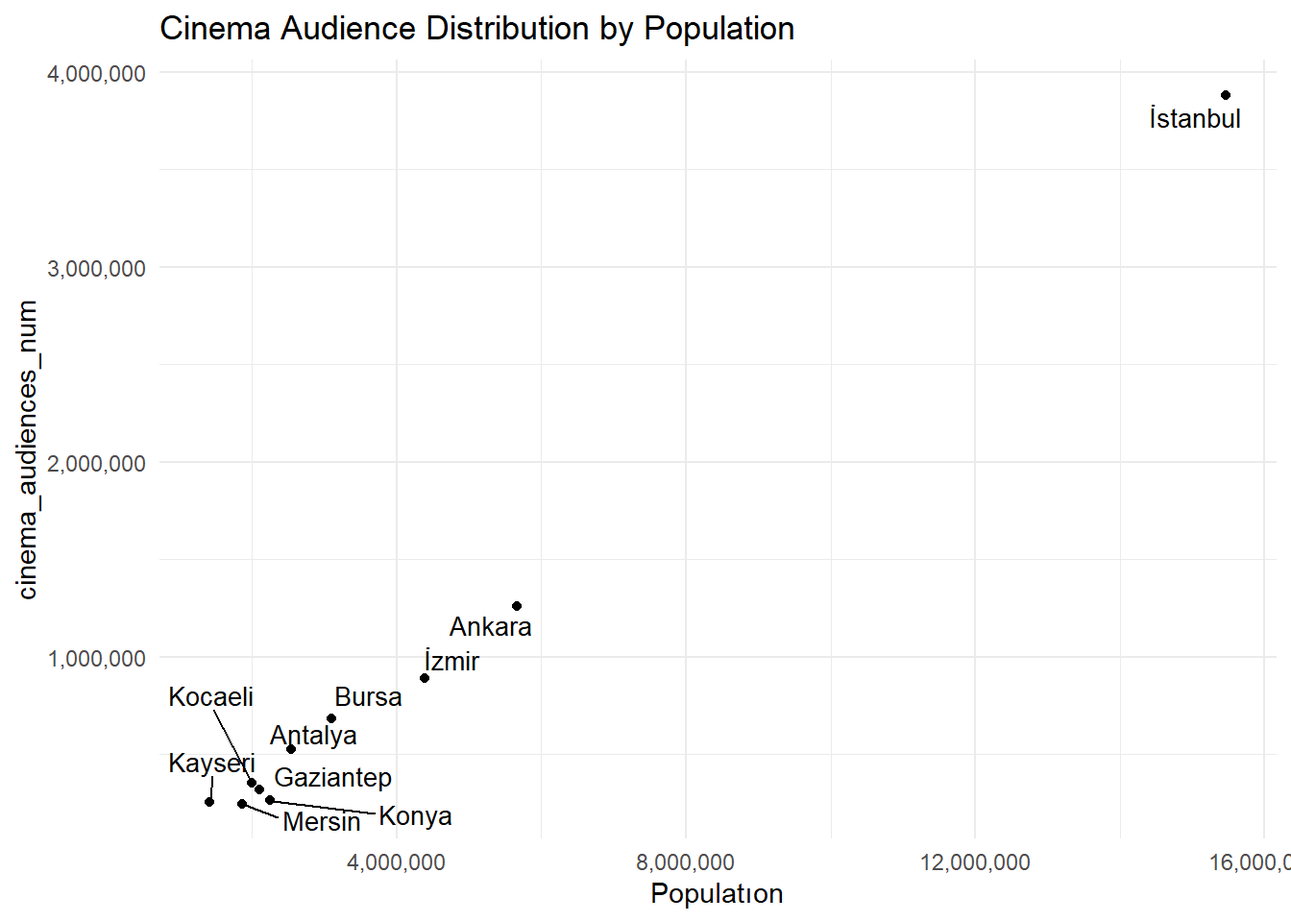
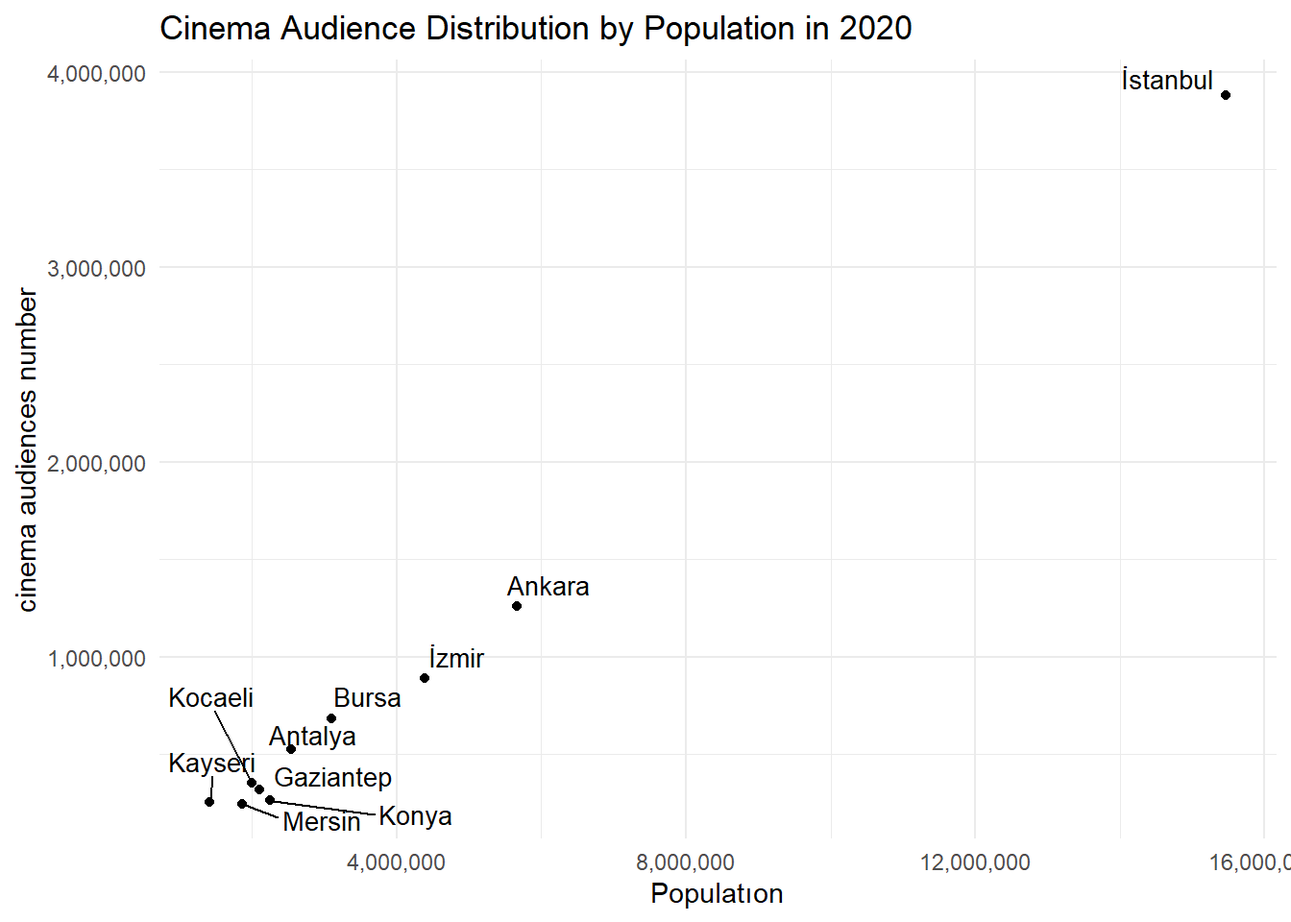
:))

diff --git a/docs/analysis.html b/docs/analysis.html
@@ -382,14 +382,22 @@ pre > code.sourceCode > span > a:first-child::before { text-decoration: underlin
 <span id="cb11-8"><a href="#cb11-8" aria-hidden="true" tabindex="-1"></a>  <span class="fu">geom_point</span>() <span class="sc">+</span></span>
 <span id="cb11-9"><a href="#cb11-9" aria-hidden="true" tabindex="-1"></a>  <span class="fu">geom_text_repel</span>(<span class="at">size =</span> <span class="fl">3.5</span>) <span class="sc">+</span></span>
 <span id="cb11-10"><a href="#cb11-10" aria-hidden="true" tabindex="-1"></a>  <span class="fu">theme_minimal</span>() <span class="sc">+</span></span>
-<span id="cb11-11"><a href="#cb11-11" aria-hidden="true" tabindex="-1"></a>  <span class="fu">labs</span>(<span class="at">title =</span> <span class="st">"Cinema Audience Distribution by Population"</span>,</span>
+<span id="cb11-11"><a href="#cb11-11" aria-hidden="true" tabindex="-1"></a>  <span class="fu">labs</span>(<span class="at">title =</span> <span class="st">"Cinema Audience Distribution by Population in 2020"</span>,</span>
 <span id="cb11-12"><a href="#cb11-12" aria-hidden="true" tabindex="-1"></a>       <span class="at">x =</span> <span class="st">"Populatıon"</span>,</span>
-<span id="cb11-13"><a href="#cb11-13" aria-hidden="true" tabindex="-1"></a>       <span class="at">y =</span> <span class="st">"cinema_audiences_num"</span>) <span class="sc">+</span></span>
+<span id="cb11-13"><a href="#cb11-13" aria-hidden="true" tabindex="-1"></a>       <span class="at">y =</span> <span class="st">"cinema audiences number"</span>) <span class="sc">+</span></span>
 <span id="cb11-14"><a href="#cb11-14" aria-hidden="true" tabindex="-1"></a>  <span class="fu">scale_x_continuous</span>(<span class="at">labels =</span> scales<span class="sc">::</span>comma) <span class="sc">+</span></span>
 <span id="cb11-15"><a href="#cb11-15" aria-hidden="true" tabindex="-1"></a>  <span class="fu">scale_y_continuous</span>(<span class="at">labels =</span> scales<span class="sc">::</span>comma)</span></code><button title="Copy to Clipboard" class="code-copy-button"><i class="bi"></i></button></pre></div>
 </details>
 <div class="cell-output-display">
 <p><img src="analysis_files/figure-html/unnamed-chunk-10-1.png" class="img-fluid" width="672"></p>
+</div>
+<details>
+<summary>Show the code</summary>
+<div class="sourceCode cell-code" id="cb12"><pre class="sourceCode r code-with-copy"><code class="sourceCode r"><span id="cb12-1"><a href="#cb12-1" aria-hidden="true" tabindex="-1"></a>correlation <span class="ot">&lt;-</span> <span class="fu">cor</span>(top_cities_2020<span class="sc">$</span>population, top_cities_2020<span class="sc">$</span>cinema_audiences_num, <span class="at">use =</span> <span class="st">"complete.obs"</span>)</span>
+<span id="cb12-2"><a href="#cb12-2" aria-hidden="true" tabindex="-1"></a><span class="fu">print</span>(<span class="fu">paste</span>(<span class="st">"Correlation between population and cinema audiences number:"</span>, correlation))</span></code><button title="Copy to Clipboard" class="code-copy-button"><i class="bi"></i></button></pre></div>
+</details>
+<div class="cell-output cell-output-stdout">
+<pre><code>[1] "Correlation between population and cinema audiences number: 0.998203615571087"</code></pre>
 </div>
 </div>
 <blockquote class="blockquote">
@@ -410,85 +418,93 @@ pre > code.sourceCode > span > a:first-child::before { text-decoration: underlin
 <div class="cell">
 <details>
 <summary>Show the code</summary>
-<div class="sourceCode cell-code" id="cb12"><pre class="sourceCode r code-with-copy"><code class="sourceCode r"><span id="cb12-1"><a href="#cb12-1" aria-hidden="true" tabindex="-1"></a>data_2020 <span class="ot">&lt;-</span> data <span class="sc">%&gt;%</span></span>
-<span id="cb12-2"><a href="#cb12-2" aria-hidden="true" tabindex="-1"></a>  <span class="fu">filter</span>(year <span class="sc">==</span> <span class="dv">2020</span>)</span>
-<span id="cb12-3"><a href="#cb12-3" aria-hidden="true" tabindex="-1"></a></span>
-<span id="cb12-4"><a href="#cb12-4" aria-hidden="true" tabindex="-1"></a>top_literacy_cities_2020 <span class="ot">&lt;-</span> data_2020 <span class="sc">%&gt;%</span></span>
-<span id="cb12-5"><a href="#cb12-5" aria-hidden="true" tabindex="-1"></a>  <span class="fu">arrange</span>(<span class="fu">desc</span>(literacy_rate)) <span class="sc">%&gt;%</span></span>
-<span id="cb12-6"><a href="#cb12-6" aria-hidden="true" tabindex="-1"></a>  <span class="fu">slice_head</span>(<span class="at">n =</span> <span class="dv">10</span>)</span>
-<span id="cb12-7"><a href="#cb12-7" aria-hidden="true" tabindex="-1"></a></span>
-<span id="cb12-8"><a href="#cb12-8" aria-hidden="true" tabindex="-1"></a><span class="fu">ggplot</span>(top_literacy_cities_2020, <span class="fu">aes</span>(<span class="at">x =</span> loaned_book_num, <span class="at">y =</span> suicides_num, <span class="at">color =</span> city)) <span class="sc">+</span></span>
-<span id="cb12-9"><a href="#cb12-9" aria-hidden="true" tabindex="-1"></a>  <span class="fu">geom_point</span>() <span class="sc">+</span></span>
-<span id="cb12-10"><a href="#cb12-10" aria-hidden="true" tabindex="-1"></a>  <span class="fu">geom_text_repel</span>(<span class="fu">aes</span>(<span class="at">label =</span> city)) <span class="sc">+</span></span>
-<span id="cb12-11"><a href="#cb12-11" aria-hidden="true" tabindex="-1"></a>  <span class="fu">labs</span>(<span class="at">x =</span> <span class="st">"Loaned Book Number"</span>, <span class="at">y =</span> <span class="st">"Number of Suicides"</span>,</span>
-<span id="cb12-12"><a href="#cb12-12" aria-hidden="true" tabindex="-1"></a>       <span class="at">title =</span> <span class="st">"The Effect of Literacy Rate on Suicide Rates"</span>) <span class="sc">+</span></span>
-<span id="cb12-13"><a href="#cb12-13" aria-hidden="true" tabindex="-1"></a>  <span class="fu">theme_minimal</span>() <span class="sc">+</span></span>
-<span id="cb12-14"><a href="#cb12-14" aria-hidden="true" tabindex="-1"></a>  <span class="fu">theme</span>(<span class="at">legend.position =</span> <span class="st">"right"</span>)</span></code><button title="Copy to Clipboard" class="code-copy-button"><i class="bi"></i></button></pre></div>
+<div class="sourceCode cell-code" id="cb14"><pre class="sourceCode r code-with-copy"><code class="sourceCode r"><span id="cb14-1"><a href="#cb14-1" aria-hidden="true" tabindex="-1"></a>data_2020 <span class="ot">&lt;-</span> data <span class="sc">%&gt;%</span></span>
+<span id="cb14-2"><a href="#cb14-2" aria-hidden="true" tabindex="-1"></a>  <span class="fu">filter</span>(year <span class="sc">==</span> <span class="dv">2020</span>)</span>
+<span id="cb14-3"><a href="#cb14-3" aria-hidden="true" tabindex="-1"></a></span>
+<span id="cb14-4"><a href="#cb14-4" aria-hidden="true" tabindex="-1"></a>top_literacy_cities_2020 <span class="ot">&lt;-</span> data_2020 <span class="sc">%&gt;%</span></span>
+<span id="cb14-5"><a href="#cb14-5" aria-hidden="true" tabindex="-1"></a>  <span class="fu">arrange</span>(<span class="fu">desc</span>(literacy_rate)) <span class="sc">%&gt;%</span></span>
+<span id="cb14-6"><a href="#cb14-6" aria-hidden="true" tabindex="-1"></a>  <span class="fu">slice_head</span>(<span class="at">n =</span> <span class="dv">10</span>)</span>
+<span id="cb14-7"><a href="#cb14-7" aria-hidden="true" tabindex="-1"></a></span>
+<span id="cb14-8"><a href="#cb14-8" aria-hidden="true" tabindex="-1"></a><span class="fu">ggplot</span>(top_literacy_cities_2020, <span class="fu">aes</span>(<span class="at">x =</span> loaned_book_num, <span class="at">y =</span> suicides_num, <span class="at">color =</span> city)) <span class="sc">+</span></span>
+<span id="cb14-9"><a href="#cb14-9" aria-hidden="true" tabindex="-1"></a>  <span class="fu">geom_point</span>() <span class="sc">+</span></span>
+<span id="cb14-10"><a href="#cb14-10" aria-hidden="true" tabindex="-1"></a>  <span class="fu">geom_text_repel</span>(<span class="fu">aes</span>(<span class="at">label =</span> city)) <span class="sc">+</span></span>
+<span id="cb14-11"><a href="#cb14-11" aria-hidden="true" tabindex="-1"></a>  <span class="fu">labs</span>(<span class="at">x =</span> <span class="st">"Loaned Book Number"</span>, <span class="at">y =</span> <span class="st">"Number of Suicides"</span>,</span>
+<span id="cb14-12"><a href="#cb14-12" aria-hidden="true" tabindex="-1"></a>       <span class="at">title =</span> <span class="st">"The Effect of Literacy Rate on Suicide Rates"</span>) <span class="sc">+</span></span>
+<span id="cb14-13"><a href="#cb14-13" aria-hidden="true" tabindex="-1"></a>  <span class="fu">theme_minimal</span>() <span class="sc">+</span></span>
+<span id="cb14-14"><a href="#cb14-14" aria-hidden="true" tabindex="-1"></a>  <span class="fu">theme</span>(<span class="at">legend.position =</span> <span class="st">"right"</span>)</span></code><button title="Copy to Clipboard" class="code-copy-button"><i class="bi"></i></button></pre></div>
 </details>
 <div class="cell-output-display">
 <p><img src="analysis_files/figure-html/unnamed-chunk-11-1.png" class="img-fluid" width="672"></p>
+</div>
+<details>
+<summary>Show the code</summary>
+<div class="sourceCode cell-code" id="cb15"><pre class="sourceCode r code-with-copy"><code class="sourceCode r"><span id="cb15-1"><a href="#cb15-1" aria-hidden="true" tabindex="-1"></a>correlation <span class="ot">&lt;-</span> <span class="fu">cor</span>(top_literacy_cities_2020<span class="sc">$</span>loaned_book_num, top_literacy_cities_2020<span class="sc">$</span>suicides_num, <span class="at">use =</span> <span class="st">"complete.obs"</span>)</span>
+<span id="cb15-2"><a href="#cb15-2" aria-hidden="true" tabindex="-1"></a><span class="fu">print</span>(<span class="fu">paste</span>(<span class="st">"Correlation between loaned book number and number of suicides:"</span>, correlation))</span></code><button title="Copy to Clipboard" class="code-copy-button"><i class="bi"></i></button></pre></div>
+</details>
+<div class="cell-output cell-output-stdout">
+<pre><code>[1] "Correlation between loaned book number and number of suicides: 0.971171019832996"</code></pre>
 </div>
 </div>
 <p>&lt;&lt;&lt;&lt;&lt;&lt;&lt; HEAD</p>
 <div class="cell">
 <details>
 <summary>Show the code</summary>
-<div class="sourceCode cell-code" id="cb13"><pre class="sourceCode r code-with-copy"><code class="sourceCode r"><span id="cb13-1"><a href="#cb13-1" aria-hidden="true" tabindex="-1"></a>data<span class="sc">$</span>population <span class="ot">&lt;-</span> <span class="fu">as.numeric</span>(data<span class="sc">$</span>population)</span>
-<span id="cb13-2"><a href="#cb13-2" aria-hidden="true" tabindex="-1"></a>data<span class="sc">$</span>book_num <span class="ot">&lt;-</span> <span class="fu">as.numeric</span>(data<span class="sc">$</span>book_num)</span>
-<span id="cb13-3"><a href="#cb13-3" aria-hidden="true" tabindex="-1"></a>data<span class="sc">$</span>public_lib <span class="ot">&lt;-</span> <span class="fu">as.numeric</span>(data<span class="sc">$</span>public_lib)</span>
-<span id="cb13-4"><a href="#cb13-4" aria-hidden="true" tabindex="-1"></a>data<span class="sc">$</span>user_num <span class="ot">&lt;-</span> <span class="fu">as.numeric</span>(data<span class="sc">$</span>user_num)</span>
-<span id="cb13-5"><a href="#cb13-5" aria-hidden="true" tabindex="-1"></a>data<span class="sc">$</span>user_num_per_thousand <span class="ot">&lt;-</span> <span class="fu">as.numeric</span>(data<span class="sc">$</span>user_num_per_thousand)</span>
-<span id="cb13-6"><a href="#cb13-6" aria-hidden="true" tabindex="-1"></a>data<span class="sc">$</span>loaned_book_num <span class="ot">&lt;-</span> <span class="fu">as.numeric</span>(data<span class="sc">$</span>loaned_book_num)</span>
-<span id="cb13-7"><a href="#cb13-7" aria-hidden="true" tabindex="-1"></a>data<span class="sc">$</span>ministry_museum_piece_num <span class="ot">&lt;-</span> <span class="fu">as.numeric</span>(data<span class="sc">$</span>ministry_museum_piece_num)</span>
-<span id="cb13-8"><a href="#cb13-8" aria-hidden="true" tabindex="-1"></a>data<span class="sc">$</span>ministry_museum_num <span class="ot">&lt;-</span> <span class="fu">as.numeric</span>(data<span class="sc">$</span>ministry_museum_num)</span>
-<span id="cb13-9"><a href="#cb13-9" aria-hidden="true" tabindex="-1"></a>data<span class="sc">$</span>ministry_museum_visitor_num <span class="ot">&lt;-</span> <span class="fu">as.numeric</span>(data<span class="sc">$</span>ministry_museum_visitor_num)</span>
-<span id="cb13-10"><a href="#cb13-10" aria-hidden="true" tabindex="-1"></a>data<span class="sc">$</span>ruins_num <span class="ot">&lt;-</span> <span class="fu">as.numeric</span>(data<span class="sc">$</span>ruins_num)</span>
-<span id="cb13-11"><a href="#cb13-11" aria-hidden="true" tabindex="-1"></a>data<span class="sc">$</span>private_museum_piece_num <span class="ot">&lt;-</span> <span class="fu">as.numeric</span>(data<span class="sc">$</span>private_museum_piece_num)</span>
-<span id="cb13-12"><a href="#cb13-12" aria-hidden="true" tabindex="-1"></a>data<span class="sc">$</span>private_museum_personnel_num <span class="ot">&lt;-</span> <span class="fu">as.numeric</span>(data<span class="sc">$</span>private_museum_personnel_num)</span>
-<span id="cb13-13"><a href="#cb13-13" aria-hidden="true" tabindex="-1"></a>data<span class="sc">$</span>private_museum_num <span class="ot">&lt;-</span> <span class="fu">as.numeric</span>(data<span class="sc">$</span>private_museum_num)</span>
-<span id="cb13-14"><a href="#cb13-14" aria-hidden="true" tabindex="-1"></a>data<span class="sc">$</span>private_museum_visitor_num <span class="ot">&lt;-</span> <span class="fu">as.numeric</span>(data<span class="sc">$</span>private_museum_visitor_num)</span>
-<span id="cb13-15"><a href="#cb13-15" aria-hidden="true" tabindex="-1"></a>data<span class="sc">$</span>cinema_audiences_num <span class="ot">&lt;-</span> <span class="fu">as.numeric</span>(data<span class="sc">$</span>cinema_audiences_num)</span>
-<span id="cb13-16"><a href="#cb13-16" aria-hidden="true" tabindex="-1"></a>data<span class="sc">$</span>theater_audiences_num <span class="ot">&lt;-</span> <span class="fu">as.numeric</span>(data<span class="sc">$</span>theater_audiences_num)</span>
-<span id="cb13-17"><a href="#cb13-17" aria-hidden="true" tabindex="-1"></a>data<span class="sc">$</span>literacy_rate <span class="ot">&lt;-</span> <span class="fu">as.numeric</span>(data<span class="sc">$</span>literacy_rate)</span>
-<span id="cb13-18"><a href="#cb13-18" aria-hidden="true" tabindex="-1"></a>data<span class="sc">$</span>suicides_num <span class="ot">&lt;-</span> <span class="fu">as.numeric</span>(data<span class="sc">$</span>suicides_num)</span>
-<span id="cb13-19"><a href="#cb13-19" aria-hidden="true" tabindex="-1"></a></span>
-<span id="cb13-20"><a href="#cb13-20" aria-hidden="true" tabindex="-1"></a>cor_pop_book_2 <span class="ot">&lt;-</span> <span class="fu">cor</span>(data<span class="sc">$</span>population, data<span class="sc">$</span>public_lib)</span>
-<span id="cb13-21"><a href="#cb13-21" aria-hidden="true" tabindex="-1"></a><span class="fu">cat</span>(<span class="st">"Correlation between Population and Number of Library:"</span>,cor_pop_book_2,<span class="st">"</span><span class="sc">\n</span><span class="st">"</span>)</span></code><button title="Copy to Clipboard" class="code-copy-button"><i class="bi"></i></button></pre></div>
+<div class="sourceCode cell-code" id="cb17"><pre class="sourceCode r code-with-copy"><code class="sourceCode r"><span id="cb17-1"><a href="#cb17-1" aria-hidden="true" tabindex="-1"></a>data<span class="sc">$</span>population <span class="ot">&lt;-</span> <span class="fu">as.numeric</span>(data<span class="sc">$</span>population)</span>
+<span id="cb17-2"><a href="#cb17-2" aria-hidden="true" tabindex="-1"></a>data<span class="sc">$</span>book_num <span class="ot">&lt;-</span> <span class="fu">as.numeric</span>(data<span class="sc">$</span>book_num)</span>
+<span id="cb17-3"><a href="#cb17-3" aria-hidden="true" tabindex="-1"></a>data<span class="sc">$</span>public_lib <span class="ot">&lt;-</span> <span class="fu">as.numeric</span>(data<span class="sc">$</span>public_lib)</span>
+<span id="cb17-4"><a href="#cb17-4" aria-hidden="true" tabindex="-1"></a>data<span class="sc">$</span>user_num <span class="ot">&lt;-</span> <span class="fu">as.numeric</span>(data<span class="sc">$</span>user_num)</span>
+<span id="cb17-5"><a href="#cb17-5" aria-hidden="true" tabindex="-1"></a>data<span class="sc">$</span>user_num_per_thousand <span class="ot">&lt;-</span> <span class="fu">as.numeric</span>(data<span class="sc">$</span>user_num_per_thousand)</span>
+<span id="cb17-6"><a href="#cb17-6" aria-hidden="true" tabindex="-1"></a>data<span class="sc">$</span>loaned_book_num <span class="ot">&lt;-</span> <span class="fu">as.numeric</span>(data<span class="sc">$</span>loaned_book_num)</span>
+<span id="cb17-7"><a href="#cb17-7" aria-hidden="true" tabindex="-1"></a>data<span class="sc">$</span>ministry_museum_piece_num <span class="ot">&lt;-</span> <span class="fu">as.numeric</span>(data<span class="sc">$</span>ministry_museum_piece_num)</span>
+<span id="cb17-8"><a href="#cb17-8" aria-hidden="true" tabindex="-1"></a>data<span class="sc">$</span>ministry_museum_num <span class="ot">&lt;-</span> <span class="fu">as.numeric</span>(data<span class="sc">$</span>ministry_museum_num)</span>
+<span id="cb17-9"><a href="#cb17-9" aria-hidden="true" tabindex="-1"></a>data<span class="sc">$</span>ministry_museum_visitor_num <span class="ot">&lt;-</span> <span class="fu">as.numeric</span>(data<span class="sc">$</span>ministry_museum_visitor_num)</span>
+<span id="cb17-10"><a href="#cb17-10" aria-hidden="true" tabindex="-1"></a>data<span class="sc">$</span>ruins_num <span class="ot">&lt;-</span> <span class="fu">as.numeric</span>(data<span class="sc">$</span>ruins_num)</span>
+<span id="cb17-11"><a href="#cb17-11" aria-hidden="true" tabindex="-1"></a>data<span class="sc">$</span>private_museum_piece_num <span class="ot">&lt;-</span> <span class="fu">as.numeric</span>(data<span class="sc">$</span>private_museum_piece_num)</span>
+<span id="cb17-12"><a href="#cb17-12" aria-hidden="true" tabindex="-1"></a>data<span class="sc">$</span>private_museum_personnel_num <span class="ot">&lt;-</span> <span class="fu">as.numeric</span>(data<span class="sc">$</span>private_museum_personnel_num)</span>
+<span id="cb17-13"><a href="#cb17-13" aria-hidden="true" tabindex="-1"></a>data<span class="sc">$</span>private_museum_num <span class="ot">&lt;-</span> <span class="fu">as.numeric</span>(data<span class="sc">$</span>private_museum_num)</span>
+<span id="cb17-14"><a href="#cb17-14" aria-hidden="true" tabindex="-1"></a>data<span class="sc">$</span>private_museum_visitor_num <span class="ot">&lt;-</span> <span class="fu">as.numeric</span>(data<span class="sc">$</span>private_museum_visitor_num)</span>
+<span id="cb17-15"><a href="#cb17-15" aria-hidden="true" tabindex="-1"></a>data<span class="sc">$</span>cinema_audiences_num <span class="ot">&lt;-</span> <span class="fu">as.numeric</span>(data<span class="sc">$</span>cinema_audiences_num)</span>
+<span id="cb17-16"><a href="#cb17-16" aria-hidden="true" tabindex="-1"></a>data<span class="sc">$</span>theater_audiences_num <span class="ot">&lt;-</span> <span class="fu">as.numeric</span>(data<span class="sc">$</span>theater_audiences_num)</span>
+<span id="cb17-17"><a href="#cb17-17" aria-hidden="true" tabindex="-1"></a>data<span class="sc">$</span>literacy_rate <span class="ot">&lt;-</span> <span class="fu">as.numeric</span>(data<span class="sc">$</span>literacy_rate)</span>
+<span id="cb17-18"><a href="#cb17-18" aria-hidden="true" tabindex="-1"></a>data<span class="sc">$</span>suicides_num <span class="ot">&lt;-</span> <span class="fu">as.numeric</span>(data<span class="sc">$</span>suicides_num)</span>
+<span id="cb17-19"><a href="#cb17-19" aria-hidden="true" tabindex="-1"></a></span>
+<span id="cb17-20"><a href="#cb17-20" aria-hidden="true" tabindex="-1"></a>cor_pop_book_2 <span class="ot">&lt;-</span> <span class="fu">cor</span>(data<span class="sc">$</span>population, data<span class="sc">$</span>public_lib)</span>
+<span id="cb17-21"><a href="#cb17-21" aria-hidden="true" tabindex="-1"></a><span class="fu">cat</span>(<span class="st">"Correlation between Population and Number of Library:"</span>,cor_pop_book_2,<span class="st">"</span><span class="sc">\n</span><span class="st">"</span>)</span></code><button title="Copy to Clipboard" class="code-copy-button"><i class="bi"></i></button></pre></div>
 </details>
 <div class="cell-output cell-output-stdout">
 <pre><code>Correlation between Population and Number of Library: 0.615907 </code></pre>
 </div>
 <details>
 <summary>Show the code</summary>
-<div class="sourceCode cell-code" id="cb15"><pre class="sourceCode r code-with-copy"><code class="sourceCode r"><span id="cb15-1"><a href="#cb15-1" aria-hidden="true" tabindex="-1"></a>cor_pop_book_3 <span class="ot">&lt;-</span> <span class="fu">cor</span>(data<span class="sc">$</span>book_num, data<span class="sc">$</span>public_lib)</span>
-<span id="cb15-2"><a href="#cb15-2" aria-hidden="true" tabindex="-1"></a><span class="fu">cat</span>(<span class="st">"Correlation between Number of Book and Number of Library:"</span>,cor_pop_book_3,<span class="st">"</span><span class="sc">\n</span><span class="st">"</span>)</span></code><button title="Copy to Clipboard" class="code-copy-button"><i class="bi"></i></button></pre></div>
+<div class="sourceCode cell-code" id="cb19"><pre class="sourceCode r code-with-copy"><code class="sourceCode r"><span id="cb19-1"><a href="#cb19-1" aria-hidden="true" tabindex="-1"></a>cor_pop_book_3 <span class="ot">&lt;-</span> <span class="fu">cor</span>(data<span class="sc">$</span>book_num, data<span class="sc">$</span>public_lib)</span>
+<span id="cb19-2"><a href="#cb19-2" aria-hidden="true" tabindex="-1"></a><span class="fu">cat</span>(<span class="st">"Correlation between Number of Book and Number of Library:"</span>,cor_pop_book_3,<span class="st">"</span><span class="sc">\n</span><span class="st">"</span>)</span></code><button title="Copy to Clipboard" class="code-copy-button"><i class="bi"></i></button></pre></div>
 </details>
 <div class="cell-output cell-output-stdout">
 <pre><code>Correlation between Number of Book and Number of Library: 0.8270526 </code></pre>
 </div>
 <details>
 <summary>Show the code</summary>
-<div class="sourceCode cell-code" id="cb17"><pre class="sourceCode r code-with-copy"><code class="sourceCode r"><span id="cb17-1"><a href="#cb17-1" aria-hidden="true" tabindex="-1"></a>cor_pop_book_4 <span class="ot">&lt;-</span> <span class="fu">cor</span>(data<span class="sc">$</span>user_num, data<span class="sc">$</span>public_lib)</span>
-<span id="cb17-2"><a href="#cb17-2" aria-hidden="true" tabindex="-1"></a><span class="fu">cat</span>(<span class="st">"Correlation between User Number and Number of Library:"</span>,cor_pop_book_4,<span class="st">"</span><span class="sc">\n</span><span class="st">"</span>)</span></code><button title="Copy to Clipboard" class="code-copy-button"><i class="bi"></i></button></pre></div>
+<div class="sourceCode cell-code" id="cb21"><pre class="sourceCode r code-with-copy"><code class="sourceCode r"><span id="cb21-1"><a href="#cb21-1" aria-hidden="true" tabindex="-1"></a>cor_pop_book_4 <span class="ot">&lt;-</span> <span class="fu">cor</span>(data<span class="sc">$</span>user_num, data<span class="sc">$</span>public_lib)</span>
+<span id="cb21-2"><a href="#cb21-2" aria-hidden="true" tabindex="-1"></a><span class="fu">cat</span>(<span class="st">"Correlation between User Number and Number of Library:"</span>,cor_pop_book_4,<span class="st">"</span><span class="sc">\n</span><span class="st">"</span>)</span></code><button title="Copy to Clipboard" class="code-copy-button"><i class="bi"></i></button></pre></div>
 </details>
 <div class="cell-output cell-output-stdout">
 <pre><code>Correlation between User Number and Number of Library: 0.5895032 </code></pre>
 </div>
 <details>
 <summary>Show the code</summary>
-<div class="sourceCode cell-code" id="cb19"><pre class="sourceCode r code-with-copy"><code class="sourceCode r"><span id="cb19-1"><a href="#cb19-1" aria-hidden="true" tabindex="-1"></a>cor_pop_book_5 <span class="ot">&lt;-</span> <span class="fu">cor</span>(data<span class="sc">$</span>literacy_rate, data<span class="sc">$</span>public_lib)</span>
-<span id="cb19-2"><a href="#cb19-2" aria-hidden="true" tabindex="-1"></a><span class="fu">cat</span>(<span class="st">"Correlation between Literacy Rate and Number of Library:"</span>,cor_pop_book_5,<span class="st">"</span><span class="sc">\n</span><span class="st">"</span>)</span></code><button title="Copy to Clipboard" class="code-copy-button"><i class="bi"></i></button></pre></div>
+<div class="sourceCode cell-code" id="cb23"><pre class="sourceCode r code-with-copy"><code class="sourceCode r"><span id="cb23-1"><a href="#cb23-1" aria-hidden="true" tabindex="-1"></a>cor_pop_book_5 <span class="ot">&lt;-</span> <span class="fu">cor</span>(data<span class="sc">$</span>literacy_rate, data<span class="sc">$</span>public_lib)</span>
+<span id="cb23-2"><a href="#cb23-2" aria-hidden="true" tabindex="-1"></a><span class="fu">cat</span>(<span class="st">"Correlation between Literacy Rate and Number of Library:"</span>,cor_pop_book_5,<span class="st">"</span><span class="sc">\n</span><span class="st">"</span>)</span></code><button title="Copy to Clipboard" class="code-copy-button"><i class="bi"></i></button></pre></div>
 </details>
 <div class="cell-output cell-output-stdout">
 <pre><code>Correlation between Literacy Rate and Number of Library: 0.3595135 </code></pre>
 </div>
 </div>
 <div class="cell">
-<div class="sourceCode cell-code" id="cb21"><pre class="sourceCode r code-with-copy"><code class="sourceCode r"><span id="cb21-1"><a href="#cb21-1" aria-hidden="true" tabindex="-1"></a>data_subset <span class="ot">&lt;-</span> data <span class="sc">%&gt;%</span></span>
-<span id="cb21-2"><a href="#cb21-2" aria-hidden="true" tabindex="-1"></a>  <span class="fu">filter</span>(year <span class="sc">%in%</span> <span class="fu">c</span>(<span class="dv">2015</span>, <span class="dv">2016</span>, <span class="dv">2017</span>, <span class="dv">2018</span>, <span class="dv">2019</span>, <span class="dv">2020</span>, <span class="dv">2021</span>))</span>
-<span id="cb21-3"><a href="#cb21-3" aria-hidden="true" tabindex="-1"></a></span>
-<span id="cb21-4"><a href="#cb21-4" aria-hidden="true" tabindex="-1"></a>model <span class="ot">&lt;-</span> <span class="fu">lm</span>(public_lib <span class="sc">~</span> population <span class="sc">+</span> book_num <span class="sc">+</span> user_num <span class="sc">+</span> literacy_rate, <span class="at">data =</span> data_subset)</span>
-<span id="cb21-5"><a href="#cb21-5" aria-hidden="true" tabindex="-1"></a><span class="fu">summary</span>(model)</span></code><button title="Copy to Clipboard" class="code-copy-button"><i class="bi"></i></button></pre></div>
+<div class="sourceCode cell-code" id="cb25"><pre class="sourceCode r code-with-copy"><code class="sourceCode r"><span id="cb25-1"><a href="#cb25-1" aria-hidden="true" tabindex="-1"></a>data_subset <span class="ot">&lt;-</span> data <span class="sc">%&gt;%</span></span>
+<span id="cb25-2"><a href="#cb25-2" aria-hidden="true" tabindex="-1"></a>  <span class="fu">filter</span>(year <span class="sc">%in%</span> <span class="fu">c</span>(<span class="dv">2015</span>, <span class="dv">2016</span>, <span class="dv">2017</span>, <span class="dv">2018</span>, <span class="dv">2019</span>, <span class="dv">2020</span>, <span class="dv">2021</span>))</span>
+<span id="cb25-3"><a href="#cb25-3" aria-hidden="true" tabindex="-1"></a></span>
+<span id="cb25-4"><a href="#cb25-4" aria-hidden="true" tabindex="-1"></a>model <span class="ot">&lt;-</span> <span class="fu">lm</span>(public_lib <span class="sc">~</span> population <span class="sc">+</span> book_num <span class="sc">+</span> user_num <span class="sc">+</span> literacy_rate, <span class="at">data =</span> data_subset)</span>
+<span id="cb25-5"><a href="#cb25-5" aria-hidden="true" tabindex="-1"></a><span class="fu">summary</span>(model)</span></code><button title="Copy to Clipboard" class="code-copy-button"><i class="bi"></i></button></pre></div>
 <div class="cell-output cell-output-stdout">
 <pre><code>
 Call:
@@ -513,18 +529,18 @@ Residual standard error: 4.764 on 562 degrees of freedom
 Multiple R-squared:  0.7392,    Adjusted R-squared:  0.7373 
 F-statistic: 398.2 on 4 and 562 DF,  p-value: &lt; 2.2e-16</code></pre>
 </div>
-<div class="sourceCode cell-code" id="cb23"><pre class="sourceCode r code-with-copy"><code class="sourceCode r"><span id="cb23-1"><a href="#cb23-1" aria-hidden="true" tabindex="-1"></a>new_data_2022 <span class="ot">&lt;-</span> data <span class="sc">%&gt;%</span></span>
-<span id="cb23-2"><a href="#cb23-2" aria-hidden="true" tabindex="-1"></a>  <span class="fu">filter</span>(year <span class="sc">==</span> <span class="dv">2022</span>) </span>
-<span id="cb23-3"><a href="#cb23-3" aria-hidden="true" tabindex="-1"></a></span>
-<span id="cb23-4"><a href="#cb23-4" aria-hidden="true" tabindex="-1"></a>new_data_2022 <span class="ot">&lt;-</span> <span class="fu">data.frame</span>(</span>
-<span id="cb23-5"><a href="#cb23-5" aria-hidden="true" tabindex="-1"></a>  <span class="at">population =</span> new_data_2022<span class="sc">$</span>population,</span>
-<span id="cb23-6"><a href="#cb23-6" aria-hidden="true" tabindex="-1"></a>  <span class="at">book_num =</span> new_data_2022<span class="sc">$</span>book_num,</span>
-<span id="cb23-7"><a href="#cb23-7" aria-hidden="true" tabindex="-1"></a>  <span class="at">user_num =</span> new_data_2022<span class="sc">$</span>user_num,</span>
-<span id="cb23-8"><a href="#cb23-8" aria-hidden="true" tabindex="-1"></a>  <span class="at">literacy_rate =</span> new_data_2022<span class="sc">$</span>literacy_rate</span>
-<span id="cb23-9"><a href="#cb23-9" aria-hidden="true" tabindex="-1"></a>)</span>
-<span id="cb23-10"><a href="#cb23-10" aria-hidden="true" tabindex="-1"></a></span>
-<span id="cb23-11"><a href="#cb23-11" aria-hidden="true" tabindex="-1"></a>predictions_2022 <span class="ot">&lt;-</span> <span class="fu">predict</span>(model, new_data_2022)</span>
-<span id="cb23-12"><a href="#cb23-12" aria-hidden="true" tabindex="-1"></a>predictions_2022</span></code><button title="Copy to Clipboard" class="code-copy-button"><i class="bi"></i></button></pre></div>
+<div class="sourceCode cell-code" id="cb27"><pre class="sourceCode r code-with-copy"><code class="sourceCode r"><span id="cb27-1"><a href="#cb27-1" aria-hidden="true" tabindex="-1"></a>new_data_2022 <span class="ot">&lt;-</span> data <span class="sc">%&gt;%</span></span>
+<span id="cb27-2"><a href="#cb27-2" aria-hidden="true" tabindex="-1"></a>  <span class="fu">filter</span>(year <span class="sc">==</span> <span class="dv">2022</span>) </span>
+<span id="cb27-3"><a href="#cb27-3" aria-hidden="true" tabindex="-1"></a></span>
+<span id="cb27-4"><a href="#cb27-4" aria-hidden="true" tabindex="-1"></a>new_data_2022 <span class="ot">&lt;-</span> <span class="fu">data.frame</span>(</span>
+<span id="cb27-5"><a href="#cb27-5" aria-hidden="true" tabindex="-1"></a>  <span class="at">population =</span> new_data_2022<span class="sc">$</span>population,</span>
+<span id="cb27-6"><a href="#cb27-6" aria-hidden="true" tabindex="-1"></a>  <span class="at">book_num =</span> new_data_2022<span class="sc">$</span>book_num,</span>
+<span id="cb27-7"><a href="#cb27-7" aria-hidden="true" tabindex="-1"></a>  <span class="at">user_num =</span> new_data_2022<span class="sc">$</span>user_num,</span>
+<span id="cb27-8"><a href="#cb27-8" aria-hidden="true" tabindex="-1"></a>  <span class="at">literacy_rate =</span> new_data_2022<span class="sc">$</span>literacy_rate</span>
+<span id="cb27-9"><a href="#cb27-9" aria-hidden="true" tabindex="-1"></a>)</span>
+<span id="cb27-10"><a href="#cb27-10" aria-hidden="true" tabindex="-1"></a></span>
+<span id="cb27-11"><a href="#cb27-11" aria-hidden="true" tabindex="-1"></a>predictions_2022 <span class="ot">&lt;-</span> <span class="fu">predict</span>(model, new_data_2022)</span>
+<span id="cb27-12"><a href="#cb27-12" aria-hidden="true" tabindex="-1"></a>predictions_2022</span></code><button title="Copy to Clipboard" class="code-copy-button"><i class="bi"></i></button></pre></div>
 <div class="cell-output cell-output-stdout">
 <pre><code>        1         2         3         4         5         6         7         8 
 18.490684 14.132453 17.641446  7.422555 14.834925 39.031562 18.991480  6.192171 
